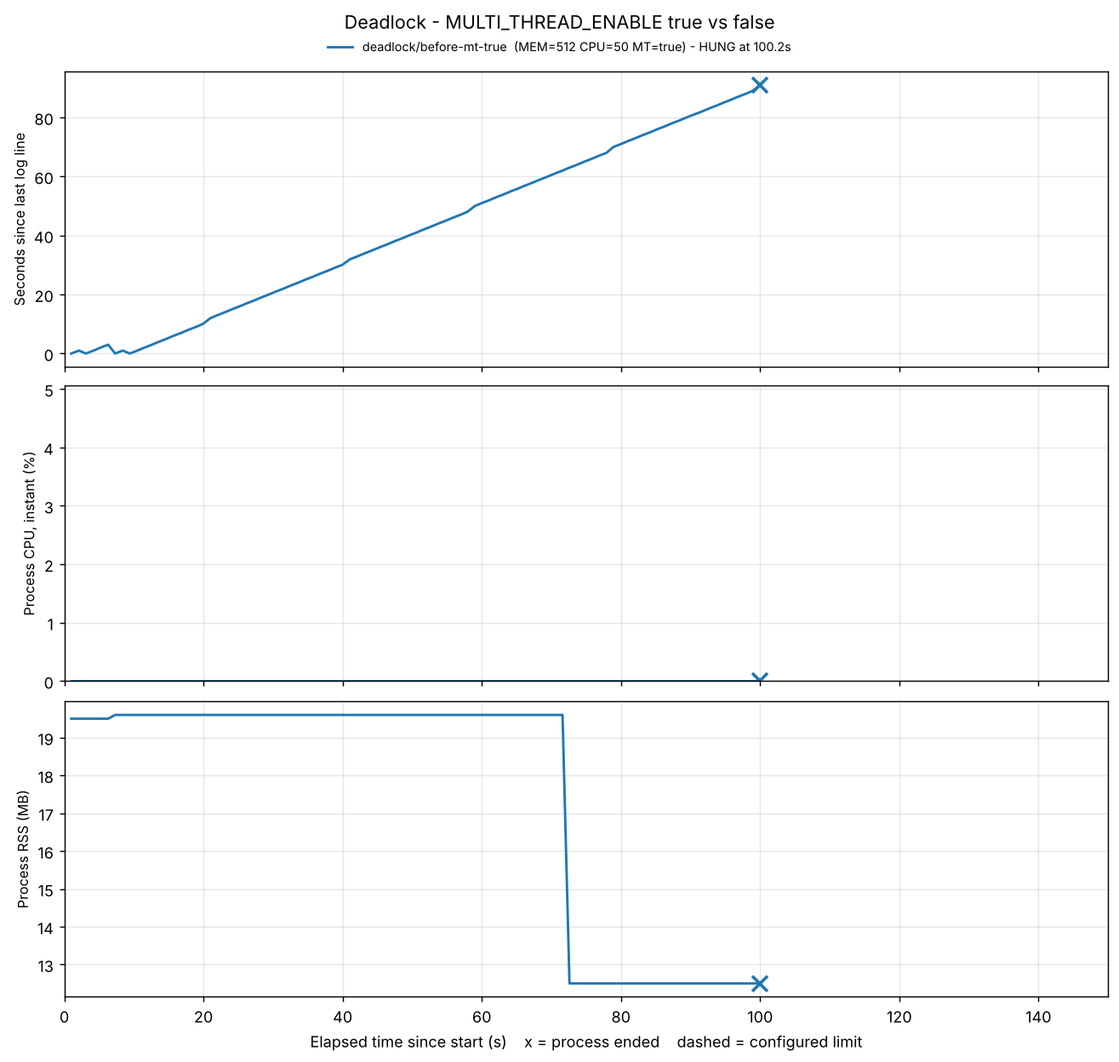
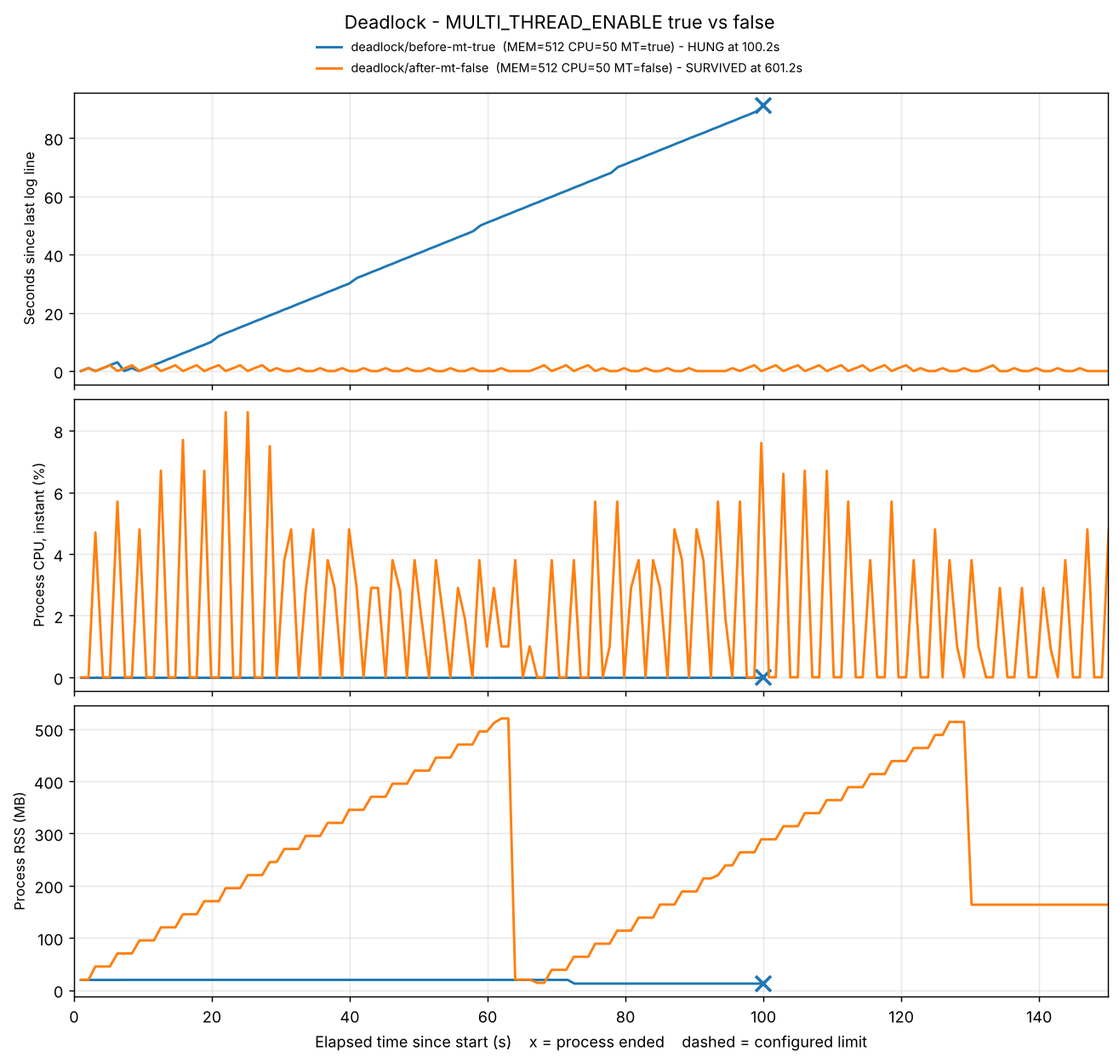
docs: complete Before & After with single-variable reruns
- OOM: before-256mb-mtoff vs deadlock/after-mt-false (only MEMORY_LIMIT differs)
- Deadlock: after-mt-false survived 600s, no stall; thread WCHAN contrast
- CPU: CPU_MAX_OCCUPY=50 peaks at exactly 50.00% with no violation
  -> watchdog fires only above 50%
- Scheduling: second sample shows the same B -> C -> A order
- regenerate OOM/Deadlock graphs, fill troubleshooting log

Claude-Session: https://claude.ai/code/session_01CQswkzVsPQAXsmY98vRD5B

diff --git a/scripts/plot.py b/scripts/plot.py
@@ -29,7 +29,7 @@ EVIDENCE = ROOT / "evidence"
 FIGURES = {
     "oom": dict(
         title="OOM - MEMORY_LIMIT 256MB vs 512MB",
-        runs=["oom/before-256mb", "oom/before-256mb-mtoff", "deadlock/after-mt-false", "cpu/after-30"],
+        runs=["oom/before-256mb-mtoff", "oom/before-256mb", "deadlock/after-mt-false"],
         panels=[("rss_mb", "Process RSS (MB)"), ("app:heap", "App-reported Heap (MB)")],
         limit_env="MEMORY_LIMIT", limit_panel=0, xmax=120,
     ),

diff --git a/docs/oom-report.md b/docs/oom-report.md
@@ -2,10 +2,12 @@
 
 | 항목 | 내용 |
 |---|---|
-| 심각도 | High — 실행 33초 만에 서비스 중단, 같은 조건에서 매번 재현 |
+| 심각도 | High — 실행 33초 만에 서비스 중단, 2회 실행 2회 재현 (생존 시간 동일) |
 | 환경 | Ubuntu 22.04 컨테이너 (OrbStack, linux/amd64, 6 core, 16GB), 실행 계정 `agent`(uid 1000) |
-| 재현 조건 | `MEMORY_LIMIT=256 CPU_MAX_OCCUPY=50 MULTI_THREAD_ENABLE=true` |
-| 증거 | [`evidence/oom/before-256mb/`](../evidence/oom/before-256mb/) · 비교 [`evidence/cpu/after-30/`](../evidence/cpu/after-30/) |
+| 재현 조건 | `MEMORY_LIMIT=256 CPU_MAX_OCCUPY=50` (`MULTI_THREAD_ENABLE` true/false 무관) |
+| 증거 | Before [`oom/before-256mb-mtoff/`](../evidence/oom/before-256mb-mtoff/) · 재현 [`oom/before-256mb/`](../evidence/oom/before-256mb/) · After [`deadlock/after-mt-false/`](../evidence/deadlock/after-mt-false/) |
+
+> §1~§2의 로그 발췌는 첫 실행(`oom/before-256mb`)에서 가져왔습니다. 두 번째 실행(`before-256mb-mtoff`)은 시각·PID만 다르고 증가 속도·종료 시점·로그 내용이 같습니다 (§2-3 표).
 
 ## 1. Description (현상 설명)
 
@@ -39,7 +41,7 @@
 
 ![OOM Before & After](../evidence/oom/compare.png)
 
-> 파랑: 256MB 실행 — 한도(파란 점선)를 넘자마자 ✕ 종료 / 주황: 512MB 실행 — 같은 속도로 늘다가 525MB에서 정리 후 0부터 다시 증가
+> 파랑·주황: 256MB 실행 2회 — 거의 겹친 채 한도(갈색 점선)를 넘자마자 ✕ 종료 / 초록: 512MB 실행 — 같은 속도로 늘다가 525MB에서 정리 후 다시 증가 (톱니 모양)
 
 ### 2-2. 프로그램 실행 로그 (종료 직전)
 
@@ -66,6 +68,15 @@ peak_rss_mb : 269.8
 - 종료 코드 137 = 128 + 9 → **SIGKILL**. 정리 기회를 주는 SIGTERM이 아니라 즉시 강제 종료
 - 로그의 `process 285`는 관제가 잡은 자식 PID와 일치 → 부모(279, PyInstaller 압축 해제 프로세스)가 아니라 **앱 본체가 자기 자신을 종료**
 
+**재현성 (2회 실행)**
+
+| 실행 | MULTI_THREAD | 시작 → 종료 (UTC) | PID (부모/본체) | 생존 | 최대 RSS | 마지막 Heap | 종료 |
+|---|---|---|---|---|---|---|---|
+| `before-256mb` | true | 09:10:36 → 09:11:08 | 279 / 285 | 33.6초 | 269.8MB | 275MB | SIGKILL (137) |
+| `before-256mb-mtoff` | false | 10:28:42 → 10:29:15 | 62523 / 62529 | 33.6초 | 270.0MB | 275MB | SIGKILL (137) |
+
+스레드 설정을 바꿔도 결과가 완전히 같다 → 메모리 한도가 256 이하이면 앱은 다른 설정과 무관하게 누수 시나리오를 고른다.
+
 ## 3. Root Cause Analysis (원인 분석)
 
 ### 증거 → 원인
@@ -87,9 +98,9 @@ peak_rss_mb : 269.8
 
 ```bash
 # Before
-MEMORY_LIMIT=256 ./scripts/monitor.sh oom before-256mb
-# After
-MEMORY_LIMIT=512 ./scripts/monitor.sh ...
+MEMORY_LIMIT=256 CPU_MAX_OCCUPY=50 MULTI_THREAD_ENABLE=false ./scripts/monitor.sh oom before-256mb-mtoff
+# After (MEMORY_LIMIT만 변경)
+MEMORY_LIMIT=512 CPU_MAX_OCCUPY=50 MULTI_THREAD_ENABLE=false ./scripts/monitor.sh deadlock after-mt-false 600
 ```
 
 ### Before & After
@@ -97,16 +108,16 @@ MEMORY_LIMIT=512 ./scripts/monitor.sh ...
 | 항목 | Before (256MB) | After (512MB) |
 |---|---|---|
 | 앱 판단 | `WARNING: Recommend Over 256MB` → 누수 시나리오 | `[ OK ]` → 정상 모드 |
-| 생존 시간 | **33.6초** | **900초 이상** (관제 타임아웃까지 생존) |
+| 생존 시간 | **33.6초** | **600초 이상** (관제 타임아웃 600초까지 생존) |
 | 한도 도달 시 동작 | `MemoryGuard` 자체 종료 (SIGKILL) | `Memory Usage Reached Limit (525MB). Starting cleanup...` → `MEMORY RECOVERED (Cache Cleared)` |
-| 한도 도달 횟수 | 1회 (즉시 종료) | 13회 (약 66초 주기로 정리 후 회복) |
+| 한도 도달 횟수 | 1회 (즉시 종료) | 9회 (약 66초 주기로 정리 후 회복) |
 | 누수 속도 | 25MB / 3.05초 | 25MB / 3.05초 (동일) |
 
-> After 데이터는 `evidence/cpu/after-30` (MEM 512 · CPU 30 · MT false)에서 가져왔습니다. Before와 CPU·스레드 설정이 다르지만, 앱은 메모리 판단을 다른 설정보다 먼저 하므로(README의 시나리오 우선순위 참고) 메모리 동작 비교에는 영향이 없습니다. 메모리 한도만 다르게 맞춘 재측정(`oom/before-256mb-mtoff` ↔ `deadlock/after-mt-false`)을 추가할 예정입니다.
+> Before와 After는 `MEMORY_LIMIT`만 다르고 나머지 설정(CPU 50, 스레드 false)은 같습니다. 같은 512MB에서 CPU만 30으로 둔 15분 실행(`cpu/after-30`)도 13회 정리 후 생존해 같은 결과입니다.
 
 ### 해석
 
-- **누수 속도는 그대로이고 한도와 대응 방식만 바뀌었다.** 512MB에서는 한도 도달 시 프로세스를 죽이는 대신 캐시를 비우는 경로로 가서 살아남았지만, Heap은 다시 0부터 같은 속도로 쌓인다(그래프 주황선의 톱니 모양).
+- **누수 속도는 그대로이고 한도와 대응 방식만 바뀌었다.** 512MB에서는 한도 도달 시 프로세스를 죽이는 대신 캐시를 비우는 경로로 가서 살아남았지만, Heap은 다시 0부터 같은 속도로 쌓인다(그래프 초록선의 톱니 모양).
 - 따라서 이 조치는 **증상을 늦춘 임시 조치**다. 누수 속도가 일정하므로 생존 시간 ≈ (한도 − 초기 사용량) ÷ 누수 속도로 예측할 수 있다: 256MB → (256 − 0) ÷ 8.2 ≈ 31초 예상, 실측 33.6초.
 - 실서비스라면 정리(flush) 순간 캐시가 비면서 응답 지연이나 데이터 유실이 생길 수 있고, 메모리 512MB를 항상 예약해야 하므로 비용도 커진다.
 

diff --git a/docs/deadlock-report.md b/docs/deadlock-report.md
@@ -5,7 +5,7 @@
 | 심각도 | Critical — 프로세스·포트는 살아 있어 "정상"처럼 보이지만 작업은 영원히 멈춤. 에러 로그 없음 |
 | 환경 | Ubuntu 22.04 컨테이너 (OrbStack, linux/amd64, 6 core, 16GB), 실행 계정 `agent`(uid 1000) |
 | 재현 조건 | `MULTI_THREAD_ENABLE=true` (메모리 `512`, CPU `50`으로 다른 장애는 배제) |
-| 증거 | [`evidence/deadlock/before-mt-true/`](../evidence/deadlock/before-mt-true/) (스냅샷: [`snapshots/`](../evidence/deadlock/before-mt-true/snapshots/)) |
+| 증거 | Before [`deadlock/before-mt-true/`](../evidence/deadlock/before-mt-true/) (스냅샷: [`snapshots/`](../evidence/deadlock/before-mt-true/snapshots/)) · After [`deadlock/after-mt-false/`](../evidence/deadlock/after-mt-false/) |
 
 ## 1. Description (현상 설명)
 
@@ -42,9 +42,9 @@ agent-leak-app-(2099)---agent-leak-app-(2105)-+-{agent-leak-app-}(2452)
 
 ![Deadlock](../evidence/deadlock/compare.png)
 
-- 위: 마지막 로그 이후 경과 시간이 **직선으로 계속 증가** (로그 완전 정지)
-- 가운데: 프로세스 CPU **100초 내내 0.0%** (무한 루프였다면 높게 나왔을 것)
-- 아래: RSS 증가 없음. 72초 시점의 1회 감소(19.6 → 12.5MB)는 같은 시각 `top`의 SHR(공유 메모리)이 9.4 → 2.2MB로 줄어든 것과 크기가 같다 → 앱 작업이 아니라 **커널이 쓰이지 않는 공유 라이브러리 페이지를 RAM에서 내린 것**
+- 위: 파랑(Before)은 마지막 로그 이후 경과 시간이 **직선으로 계속 증가** (로그 완전 정지). 주황(After)은 0~2초에 머묾
+- 가운데: Before는 프로세스 CPU **100초 내내 0.0%** (무한 루프였다면 높게 나왔을 것). After는 수 % 단위로 계속 오르내림
+- 아래: Before는 RSS 증가 없음 (After는 정상 모드의 메모리 워커가 돌아 톱니 모양). 72초 시점의 1회 감소(19.6 → 12.5MB)는 같은 시각 `top`의 SHR(공유 메모리)이 9.4 → 2.2MB로 줄어든 것과 크기가 같다 → 앱 작업이 아니라 **커널이 쓰이지 않는 공유 라이브러리 페이지를 RAM에서 내린 것**
 
 ### 2-3. 스레드 상태 (`ps -L`, `top -H`) — 60초 간격 두 스냅샷
 
@@ -156,12 +156,25 @@ MEMORY_LIMIT=512 CPU_MAX_OCCUPY=50 MULTI_THREAD_ENABLE=false ./scripts/monitor.s
 
 | 항목 | Before (`true`) | After (`false`) |
 |---|---|---|
-| 부팅 판단 | `Concurrency: True [ WARNING ]` `POTENTIAL DEADLOCK` | ⏳ 재측정 예정 |
-| 워커 스레드 | 2개 생성 → 2초 뒤 모두 `futex_wait` | ⏳ |
-| 로그 진행 | 09:19:49 이후 정지 | ⏳ |
-| 결과 | `HUNG` (91초 무응답, 관제가 종료) | ⏳ |
+| 부팅 판단 | `Concurrency: True [ WARNING ]` `POTENTIAL DEADLOCK` | `Concurrency: False [ OK ]` → `Healthy System Monitoring` |
+| 락 경쟁 로그 | `LOCK ACQUIRED` ×2 → `WAITING … BLOCKED` ×2 | 없음 (트랜잭션 워커 자체가 생성되지 않음) |
+| 스레드 상태 | 워커 2개 모두 `futex_wait`, `TIME+` 0:00.00 고정 | 워커 2개 `do_select`(작업 사이 정상 대기), %CPU 0.8~0.9 — 실제로 일하고 있음 |
+| 로그 진행 | 09:19:49 이후 정지 | 600초 내내 진행, 로그 공백 최대 **2초** |
+| CPU / 메모리 | 0% / 변화 없음 | 평균 1.8% / 25MB씩 증가 후 525MB에서 정리 (9회) |
+| 무응답 감지 | 31초 만에 `STALL DETECTED` | **0회** |
+| 결과 | `HUNG` (91초 무응답, 관제가 종료) | `SURVIVED` (600초 타임아웃까지 정상 동작) |
 
-> 참고: 스레드만 끄고 CPU 상한을 30으로 둔 실행([`cpu/after-30`](../evidence/cpu/after-30/), `Concurrency: False [ OK ]`)에서는 데드락 없이 `Healthy System Monitoring` 모드로 **900초 동안 로그가 계속 진행**됐다 (로그 공백 최대 2초, 무응답 감지 0회). Before와 스레드 설정 하나만 다른 실행으로 이 표를 채울 예정이다.
+After 실행이 끝날 때 찍은 스레드 스냅샷 (`deadlock/after-mt-false/snapshots/104703-timeout.txt`):
+
+```
+    PID     LWP STAT %CPU %MEM WCHAN                    COMMAND
+  64380   64380 S+    0.0  0.0 do_wait                  agent-leak-app-
+  64386   64386 SNl+  0.0  1.0 futex_wait               agent-leak-app-   ← 메인: 워커를 기다리는 정상 대기
+  64386   64503 SNl+  0.9  1.0 do_select                agent-leak-app-   ← 워커: 일하고 쉬기를 반복
+  64386   64504 SNl+  0.8  1.0 do_select                agent-leak-app-
+```
+
+Before와 같은 `S` 상태라도 **무엇을 기다리는지(WCHAN)와 CPU 시간이 쌓이는지**가 다르다. Before의 워커는 락(`futex`)에서 CPU를 한 번도 못 쓰고 멈춰 있었고, After의 워커는 `select`로 잠깐 쉬었다 일하기를 반복하며 CPU를 조금씩 쓰고 있다. "잠들어 있다"만으로는 데드락이라 할 수 없고, **락 대기 + 진행 없음**이 함께 확인돼야 한다.
 
 ### 해석
 

diff --git a/README.md b/README.md
@@ -11,12 +11,12 @@
 
 | 장애 | 리포트 | Before | After | 핵심 증거 |
 |---|---|---|---|---|
-| **OOM** | [oom-report.md](docs/oom-report.md) | `MEMORY_LIMIT=256` → **33.6초** 만에 강제 종료 (SIGKILL, exit 137) | `MEMORY_LIMIT=512` → **15분 이상 생존**, 한도 도달 시 캐시 비우고 회복 (13회) ⏳ 동일 조건 재측정 예정 | Heap 25MB/3초 선형 증가, `[MemoryGuard] Memory limit exceeded (275MB >= 256MB)` |
-| **CPU** | [cpu-report.md](docs/cpu-report.md) | `CPU_MAX_OCCUPY=100` → **33.6초** 만에 종료 (SIGTERM, exit 143), 3회 재현 | `CPU_MAX_OCCUPY=30` → **15분 이상 생존**, 30%에서 자체 cooldown (25회) | 앱 Load 5% → 52% 단조 증가 후 약 50%에서 종료, `[CpuWorker] CPU Threshold Violated! (52.33%)` |
-| **Deadlock** | [deadlock-report.md](docs/deadlock-report.md) | `MULTI_THREAD_ENABLE=true` → PID 살아있으나 로그 정지, CPU 0%, 91초 무응답 | `MULTI_THREAD_ENABLE=false` → ⏳ 추가 실행 예정 | 워커 스레드 2개 모두 `futex_wait`, `WAITING for [Socket_Pool_B] / [Shared_Memory_A] (BLOCKED)` |
+| **OOM** | [oom-report.md](docs/oom-report.md) | `MEMORY_LIMIT=256` → **33.6초** 만에 강제 종료 (SIGKILL, exit 137), 2회 재현 | `MEMORY_LIMIT=512` → **600초 타임아웃까지 생존**, 525MB 도달 시 캐시 비우고 회복 (9회) | Heap 25MB/3초 선형 증가, `[MemoryGuard] Memory limit exceeded (275MB >= 256MB)` |
+| **CPU** | [cpu-report.md](docs/cpu-report.md) | `CPU_MAX_OCCUPY=100` → **33.6초** 만에 종료 (SIGTERM, exit 143), 3회 재현 | `CPU_MAX_OCCUPY=30` → **900초 타임아웃까지 생존**, 30%에서 자체 cooldown (25회). 경계값 50도 생존 | 앱 Load 5% → 52% 단조 증가 후 약 50%에서 종료, `[CpuWorker] CPU Threshold Violated! (52.33%)` |
+| **Deadlock** | [deadlock-report.md](docs/deadlock-report.md) | `MULTI_THREAD_ENABLE=true` → PID 살아있으나 로그 정지, CPU 0%, 91초 무응답 | `MULTI_THREAD_ENABLE=false` → **600초 타임아웃까지 생존**, 로그 공백 최대 2초, 무응답 감지 0회 | 워커 스레드 2개 모두 `futex_wait`, `WAITING for [Socket_Pool_B] / [Shared_Memory_A] (BLOCKED)` |
 | 보너스 | [scheduling-analysis.md](docs/scheduling-analysis.md) | 등록 A→B→C, 실행 B→C→A, 각 작업이 100% 끝난 뒤 다음 작업 시작 | | **비선점 Priority** 스케줄링으로 추론 |
 
-> ⏳ 두 칸은 "비교 대상과 변수 하나만 다른" 재측정을 추가할 예정입니다 ([evidence/README.md](evidence/README.md#추가-실행-예정)). 현재 OOM After는 같은 메모리 한도의 정상 모드 실행(`cpu/after-30`)으로 비교했습니다.
+> 세 비교 모두 **Before와 After 사이에 환경변수 하나만** 다릅니다 ([비교 쌍](evidence/README.md#폴더--실행-조건)).
 
 ### 실행하면서 알아낸 앱의 동작: "시나리오 선택기"
 
@@ -24,14 +24,14 @@
 
 | 우선순위 | 조건 | 선택되는 시나리오 | 확인한 실행 |
 |---|---|---|---|
-| 1 | `MEMORY_LIMIT` ≤ 256 (부팅 시 `WARNING: Recommend Over 256MB`) | 메모리 누수 → MemoryGuard 종료 | MEM 256 |
+| 1 | `MEMORY_LIMIT` ≤ 256 (부팅 시 `WARNING: Recommend Over 256MB`) | 메모리 누수 → MemoryGuard 종료 | MEM 256 (2회, 스레드 true/false 무관) |
 | 2 | `CPU_MAX_OCCUPY` > 50 (`WARNING: Recommend Under 50%`) | CPU 과점유 → Watchdog 종료 | CPU 100 (3회, 스레드 true여도 CPU가 우선) |
 | 3 | `MULTI_THREAD_ENABLE=true` (`POTENTIAL DEADLOCK`) | 데드락 | MEM 512 + CPU 50 + MT true |
-| - | 모두 정상 | `Healthy System Monitoring` (안정 동작 + 스케줄러 로그) | MEM 512 + CPU 30 + MT false |
+| - | 모두 정상 | `Healthy System Monitoring` (안정 동작 + 스케줄러 로그) | MEM 512 + CPU 30 또는 50 + MT false |
 
 그래서 **한 장애를 관찰할 때는 더 높은 우선순위 장애를 꺼두고, 비교할 변수 하나만 바꾸는 방식**으로 실험을 다시 설계했고, 처음 실행한 결과는 **실제로 재현된 장애 기준으로 폴더를 재분류**했습니다 (매핑: [evidence/README.md](evidence/README.md)).
 
-또 하나: `CPU_MAX_OCCUPY`는 Watchdog 기준이 아니라 **작업이 스스로 멈추는 상한**이었습니다. 그래서 **낮출수록(30) 살아남고 높이면(100) 죽습니다** — 처음 예상과 반대였습니다 ([cpu-report §3](docs/cpu-report.md#3-root-cause-analysis-원인-분석)).
+또 하나: `CPU_MAX_OCCUPY`는 Watchdog 기준이 아니라 **작업이 스스로 멈추는 상한**이었습니다. Watchdog은 앱 Load가 **50%를 초과**할 때 발동하므로, 상한을 **30·50으로 두면 살아남고 100으로 두면 죽습니다** — 처음 예상과 반대였습니다 ([cpu-report §3](docs/cpu-report.md#3-root-cause-analysis-원인-분석)).
 
 ---
 

diff --git a/evidence/README.md b/evidence/README.md
@@ -6,16 +6,26 @@
 
 | 폴더 | MEMORY_LIMIT | CPU_MAX_OCCUPY | MULTI_THREAD | 앱이 고른 시나리오 | 결과 | 쓰이는 곳 |
 |---|---|---|---|---|---|---|
-| `oom/before-256mb` | 256 | 50 | true | 메모리 누수 | 33.6초, SIGKILL(137) | OOM Before |
+| `oom/before-256mb-mtoff` | 256 | 50 | false | 메모리 누수 | 33.6초, SIGKILL(137) | **OOM Before** |
+| `oom/before-256mb` | 256 | 50 | true | 메모리 누수 | 33.6초, SIGKILL(137) | OOM 재현 2 |
 | `cpu/before-100` | 512 | 100 | false | CPU 과점유 | 33.6초, SIGTERM(143) | CPU Before |
 | `cpu/repeat-100-mt-true` | 512 | 100 | true | CPU 과점유 | 33.6초, SIGTERM(143) | CPU 재현 2 |
 | `cpu/repeat-100-mt-false` | 512 | 100 | false | CPU 과점유 | 36.8초, SIGTERM(143) | CPU 재현 3 |
-| `cpu/after-30` | 512 | 30 | false | Healthy | 900초 생존(타임아웃) | CPU After, OOM After(임시), 스케줄링 |
-| `deadlock/before-mt-true` | 512 | 50 | true | 데드락 | 로그 정지 → 90초 무응답, 관제가 종료 | Deadlock Before |
+| `cpu/after-30` | 512 | 30 | false | Healthy | 900초 생존(타임아웃) | **CPU After**, 스케줄링 표본 1 |
+| `deadlock/before-mt-true` | 512 | 50 | true | 데드락 | 로그 정지 → 91초 무응답, 관제가 종료 | **Deadlock Before** |
+| `deadlock/after-mt-false` | 512 | 50 | false | Healthy | 600초 생존(타임아웃), 무응답 0회 | **Deadlock After**, **OOM After**, CPU 경계값(50%), 스케줄링 표본 2 |
+
+**변수 하나만 다른 비교 쌍**
+
+| 비교 | Before | After | 달라진 변수 |
+|---|---|---|---|
+| OOM | `oom/before-256mb-mtoff` | `deadlock/after-mt-false` | `MEMORY_LIMIT` 256 → 512 |
+| CPU | `cpu/before-100` | `cpu/after-30` | `CPU_MAX_OCCUPY` 100 → 30 |
+| Deadlock | `deadlock/before-mt-true` | `deadlock/after-mt-false` | `MULTI_THREAD_ENABLE` true → false |
 
 ## 폴더 이름이 실행 당시 label과 다른 이유
 
-처음 6번 실행은 "세 장애가 한 프로세스에서 동시에 일어난다"는 가정으로 설계했는데, 실행해보니 앱이 **부팅 시 환경변수 우선순위(메모리 > CPU > 스레드)로 시나리오를 하나만 고른다**는 것이 드러났습니다. 그래서 의도한 장애와 실제로 재현된 장애가 다른 실행이 생겼고, 분석 후 **실제로 재현된 장애 기준으로 폴더를 재분류**했습니다.
+아래 5개 폴더가 해당합니다. 처음 6번 실행은 "세 장애가 한 프로세스에서 동시에 일어난다"는 가정으로 설계했는데, 실행해보니 앱이 **부팅 시 환경변수 우선순위(메모리 > CPU > 스레드)로 시나리오를 하나만 고른다**는 것이 드러났습니다. 그래서 의도한 장애와 실제로 재현된 장애가 다른 실행이 생겼고, 분석 후 **실제로 재현된 장애 기준으로 폴더를 재분류**했습니다.
 
 증거 원본은 수정하지 않았기 때문에 각 폴더의 `summary.txt` · `monitor.log`에 적힌 `label`은 실행 당시 이름 그대로입니다.
 
@@ -25,15 +35,8 @@
 | `cpu/before-100` | `cpu/after-100` |
 | `cpu/after-30` | `cpu/before-30` |
 | `cpu/repeat-100-mt-true` | `deadlock/before-mt-true` |
-| `cpu/repeat-100-mt-false` | `deadlock/after-mt-false` |
+| `cpu/repeat-100-mt-false` | `deadlock/after-mt-false` (지금의 `deadlock/after-mt-false`는 이후 새로 실행한 별개 실행) |
 
 ### 원본에서 바꾼 것 (1건)
 
-`metrics.csv`의 `pids` 컬럼: 앱이 PID 2개로 떠서 `279,285`처럼 쉼표가 들어가 이후 컬럼이 한 칸씩 밀렸습니다. 쉼표를 `;`로 바꿔 컬럼을 복구했고 **값 자체는 바꾸지 않았습니다** (`monitor.sh`도 같은 방식으로 수정).
-
-## 추가 실행 예정
-
-| 폴더 | 조건 | 목적 |
-|---|---|---|
-| `oom/before-256mb-mtoff` | 256 / 50 / false | OOM Before를 After와 **메모리 한도만** 다르게 맞추기 |
-| `deadlock/after-mt-false` | 512 / 50 / false | Deadlock After (Before와 스레드 설정만 다름) + OOM After |
+처음 6번 실행의 `metrics.csv` `pids` 컬럼: 앱이 PID 2개로 떠서 `279,285`처럼 쉼표가 들어가 이후 컬럼이 한 칸씩 밀렸습니다. 쉼표를 `;`로 바꿔 컬럼을 복구했고 **값 자체는 바꾸지 않았습니다** (`monitor.sh`도 같은 방식으로 수정).

diff --git a/docs/cpu-report.md b/docs/cpu-report.md
@@ -1,4 +1,4 @@
-# [Bug] CPU Latency - CpuWorker 부하가 상한 없이 증가해 Watchdog(약 50%)에 의해 SIGTERM 종료
+# [Bug] CPU Latency - CpuWorker 부하가 상한 없이 증가해 Watchdog(50% 초과)에 의해 SIGTERM 종료
 
 | 항목 | 내용 |
 |---|---|
@@ -38,7 +38,16 @@
 [repeat-100-mt-false] 2026-11-05 09:44:31,987 [CRITICAL] [CpuWorker] CPU Threshold Violated! (50.3%).
 ```
 
-→ 세 번 모두 **50%를 처음 넘은 직후** 종료. `CPU_MAX_OCCUPY=100`으로 줬는데도 50%에서 끊겼으므로, 종료 기준은 설정값이 아니라 **앱에 고정된 약 50% 임계치**(부팅 경고 `Recommend Under 50%`와 일치)다.
+→ 세 번 모두 **50%를 처음 넘은 직후** 종료. `CPU_MAX_OCCUPY=100`으로 줬는데도 50%에서 끊겼으므로, 종료 기준은 설정값이 아니라 **앱에 고정된 50% 임계치**(부팅 경고 `Recommend Under 50%`와 일치)다.
+
+**경계값 확인**: `CPU_MAX_OCCUPY=50`으로 600초 실행한 [`deadlock/after-mt-false`](../evidence/deadlock/after-mt-false/)에서는 Load가 정확히 50.00%에 닿으면 멈추고 식히기를 10회 반복했고, `Threshold Violated`는 한 번도 나오지 않았다.
+
+```
+2026-11-05 10:37:32,165 [INFO] [CpuWorker] Peak reached (50.00%). Starting cooldown...
+2026-11-05 10:38:34,506 [INFO] [CpuWorker] Peak reached (50.00%). Starting cooldown...
+```
+
+→ Watchdog은 **50%를 "초과"할 때** 발동한다. 50.00%까지는 허용되고, 52.33% · 54.23% · 50.3%는 종료됐다.
 
 ### 2-2. 종료 형태 (`summary.txt`)
 
@@ -86,7 +95,7 @@ end_reason  : EXITED by itself (exit code 143) = signal 15 (TERM)
 ### 증거 → 원인
 
 1. **Load가 3초마다 단조 증가하고 내려오지 않음** → CpuWorker가 작업량을 계속 늘리기만 하는 구조. `CPU_MAX_OCCUPY=100`이 "최대 100%까지 올려도 된다"는 상한으로 쓰여, 사실상 **브레이크가 없는 상태**
-2. **약 50%를 넘는 순간 SIGTERM** (3회 모두) → 앱 내부 Watchdog의 고정 임계치. 설정 상한(100)이 Watchdog 임계치(50)보다 높아 **반드시 Watchdog에 걸리는 설정 충돌**
+2. **50%를 넘는 순간 SIGTERM** (3회 모두, 50.00% 정확히는 허용) → 앱 내부 Watchdog의 고정 임계치. 설정 상한(100)이 Watchdog 임계치(50)보다 높아 **반드시 Watchdog에 걸리는 설정 충돌**
 3. **After(30%)에서는 Load가 30%에 닿으면 `Peak reached (30.00%). Starting cooldown...` → 5%까지 내려간 뒤 다시 증가** → `CPU_MAX_OCCUPY`는 Watchdog 기준이 아니라 **작업이 스스로 멈추는 상한(throttle)** 이라는 것이 확인됨
 
 정리하면: 상한(`CPU_MAX_OCCUPY`)을 Watchdog 임계치(50%)보다 높게 주면 부하가 임계치를 뚫고 올라가 강제 종료되고, 임계치보다 낮게 주면 작업이 먼저 스스로 식혀서 살아남는다.
@@ -119,6 +128,8 @@ MEMORY_LIMIT=512 MULTI_THREAD_ENABLE=false CPU_MAX_OCCUPY=30  ./scripts/monitor.
 | 상한 도달 횟수 | - | 25회 (약 35초 주기) |
 | 생존 시간 | **33.6초** (재현 33.6 / 36.8초) | **900초 이상** (관제 타임아웃까지 생존) |
 | 종료 사유 | SIGTERM (exit 143) | 관제가 정상 종료 |
+
+참고로 경계값 `CPU_MAX_OCCUPY=50`도 600초 동안 생존했다(Load 50.00%에서 cooldown 10회, 위반 0회). 실측한 세 값(30·50 생존, 100 종료)과 "Load가 50%를 넘는 순간 종료"라는 로그를 합치면, **상한을 50 이하로 두는 것**이 안전한 설정이다 (51~99 사이 값은 실행해보지 않았다).
 
 ### 해석
 

diff --git a/docs/scheduling-analysis.md b/docs/scheduling-analysis.md
@@ -2,9 +2,9 @@
 
 | 항목 | 내용 |
 |---|---|
-| 데이터 | [`evidence/cpu/after-30/app.log`](../evidence/cpu/after-30/app.log) — 모든 설정이 정상일 때 앱이 고르는 `Healthy System Monitoring` 모드 |
-| 실행 조건 | `MEMORY_LIMIT=512 CPU_MAX_OCCUPY=30 MULTI_THREAD_ENABLE=false` |
-| 결론 | **비선점(Non-preemptive) Priority 스케줄링**으로 추론 (표본 1회, 아래 한계 참고) |
+| 데이터 | 정상 모드(`Healthy System Monitoring`) 실행 2회 — [`cpu/after-30/app.log`](../evidence/cpu/after-30/app.log), [`deadlock/after-mt-false/app.log`](../evidence/deadlock/after-mt-false/app.log) |
+| 실행 조건 | `MEMORY_LIMIT=512 MULTI_THREAD_ENABLE=false`, `CPU_MAX_OCCUPY` 30 / 50 |
+| 결론 | **비선점(Non-preemptive) Priority 스케줄링**으로 추론 (표본 2회 모두 같은 순서) |
 
 ## 1. 로그 관찰 개요
 
@@ -36,7 +36,20 @@
 09:24:38,741 [INFO] [Scheduler] All tasks completed.
 ```
 
-### 타이밍 정리
+두 번째 실행(`deadlock/after-mt-false`, 1시간 12분 뒤 별도 프로세스)도 **같은 순서, 같은 간격**이었다.
+
+```
+10:37:04,356 [Scheduler] Registered Tasks: ['Thread-A', 'Thread-B', 'Thread-C']
+10:37:04,356 [Thread-B] Task Started. Calculating... (20%)
+10:37:04,561 [Thread-B] Task Completed. (100%)
+10:37:04,612 [Thread-C] Task Started. Calculating... (20%)
+10:37:04,817 [Thread-C] Task Completed. (100%)
+10:37:04,868 [Thread-A] Task Started. Calculating... (20%)
+10:37:05,074 [Thread-A] Task Completed. (100%)
+10:37:05,125 [Scheduler] All tasks completed.
+```
+
+### 타이밍 정리 (첫 번째 실행)
 
 | 작업 | 시작 | 완료 | 소요 | 실행 중 다른 작업 끼어듦 |
 |---|---|---|---|---|
@@ -47,6 +60,7 @@
 - 진행률 한 단계 간격: 약 51~52ms로 일정
 - 작업 간 전환 간격: 약 51ms (완료 → 다음 작업 시작)
 - 세 작업의 길이가 사실상 같음 (206~207ms)
+- 두 번째 실행: B 205ms → C 205ms → A 206ms, 전환 간격 51ms — 첫 실행과 같음
 
 ## 3. 패턴 분석
 
@@ -66,7 +80,8 @@
 
 ### 한계
 
-- 900초 실행 동안 스케줄러 블록은 **부팅 직후 1회**만 찍혀 표본이 하나다. 여러 번 실행해서 순서가 매번 B → C → A로 같다면 고정 우선순위, 매번 다르다면 무작위 선택일 가능성도 있다. 추가 실행 로그로 확인할 예정이다.
+- 스케줄러 블록은 실행마다 **부팅 직후 1회**만 찍힌다. 서로 다른 프로세스 2회에서 순서가 모두 B → C → A였으므로 무작위 선택보다는 **고정된 우선순위**일 가능성이 높다. 다만 표본이 2개라 "항상"이라고 단정하지는 않는다 (무작위라면 같은 순서가 두 번 나올 확률은 1/6).
+- 우선순위 값 자체는 로그에 나오지 않아, B > C > A는 **실행 순서로부터 추론한 것**이다.
 - 이것은 **앱 내부 작업 스케줄러**의 동작이다. OS 수준 스케줄링(CFS)과는 별개이며, 앱이 프로세스 자체를 `nice=10`으로 낮춘 것은 OS 수준 우선순위 조정이다.
 
 ## 4. 결론 — 장단점과 적합한 서비스

diff --git a/docs/troubleshooting-log.md b/docs/troubleshooting-log.md
@@ -23,8 +23,8 @@
 | 09:40:17 | `cpu/before-100` (`cpu/after-100`) | 512 / 100 / false | CPU 과점유 | 33.6s | SIGTERM (143), Load 52.33% |
 | 09:41:22 | `cpu/repeat-100-mt-true` (`deadlock/before-mt-true`) | 512 / 100 / true | CPU 과점유 | 33.6s | SIGTERM (143), Load 54.23% |
 | 09:43:55 | `cpu/repeat-100-mt-false` (`deadlock/after-mt-false`) | 512 / 100 / false | CPU 과점유 | 36.8s | SIGTERM (143), Load 50.3% |
-| 예정 | `oom/before-256mb-mtoff` | 256 / 50 / false | (메모리 누수 예상) | | |
-| 예정 | `deadlock/after-mt-false` | 512 / 50 / false | (Healthy 예상) | | |
+| 10:28:42 | `oom/before-256mb-mtoff` | 256 / 50 / false | 메모리 누수 | 33.6s | SIGKILL (137), MemoryGuard — 첫 실행과 동일 |
+| 10:37:02 | `deadlock/after-mt-false` | 512 / 50 / false | Healthy | 601.2s | 타임아웃까지 생존, 무응답 0회, Load 50.00%에서 cooldown 10회 |
 
 ## 막혔던 점 / 해결
 
@@ -40,3 +40,4 @@
 | `metrics.csv` 뒤쪽 컬럼이 한 칸씩 밀림 | 앱이 PID 2개(PyInstaller 부모/자식)로 떠서 `2099,2105`의 쉼표가 CSV 구분자와 충돌 | PID 구분자를 `;`로 변경, 기존 CSV는 컬럼 수 기준으로 복구 (값은 그대로) |
 | CPU 장애인데 OS가 잰 CPU는 2% 미만, 살아남은 실행이 오히려 더 높음 | Watchdog이 OS 측정값이 아니라 **앱 내부 Load 지표**로 판단 | 리포트에 앱 지표와 OS 측정값을 나란히 기록하고 차이를 명시 |
 | 데드락 중 RSS가 72초 시점에 19.6 → 12.5MB로 한 번 감소 | 같은 시점 `top`의 SHR이 9.4 → 2.2MB로 감소 — 커널이 쓰이지 않는 공유 라이브러리 페이지를 RAM에서 내림 | 앱 활동이 아님을 확인, "정체" 판단 유지 |
+| 재실행 시 `이미 존재하는 결과 폴더` 에러 | ① 맥에서 `git pull` 전이라 옛 폴더가 남아 있었음 ② pull 후에도 **빈 `snapshots/` 폴더**가 남음 — git은 빈 폴더를 추적하지 않아 이동·삭제하지 못함 | `git pull` 후 `ls -a`로 남은 게 빈 폴더뿐인지 확인하고 `rm -rf` |
